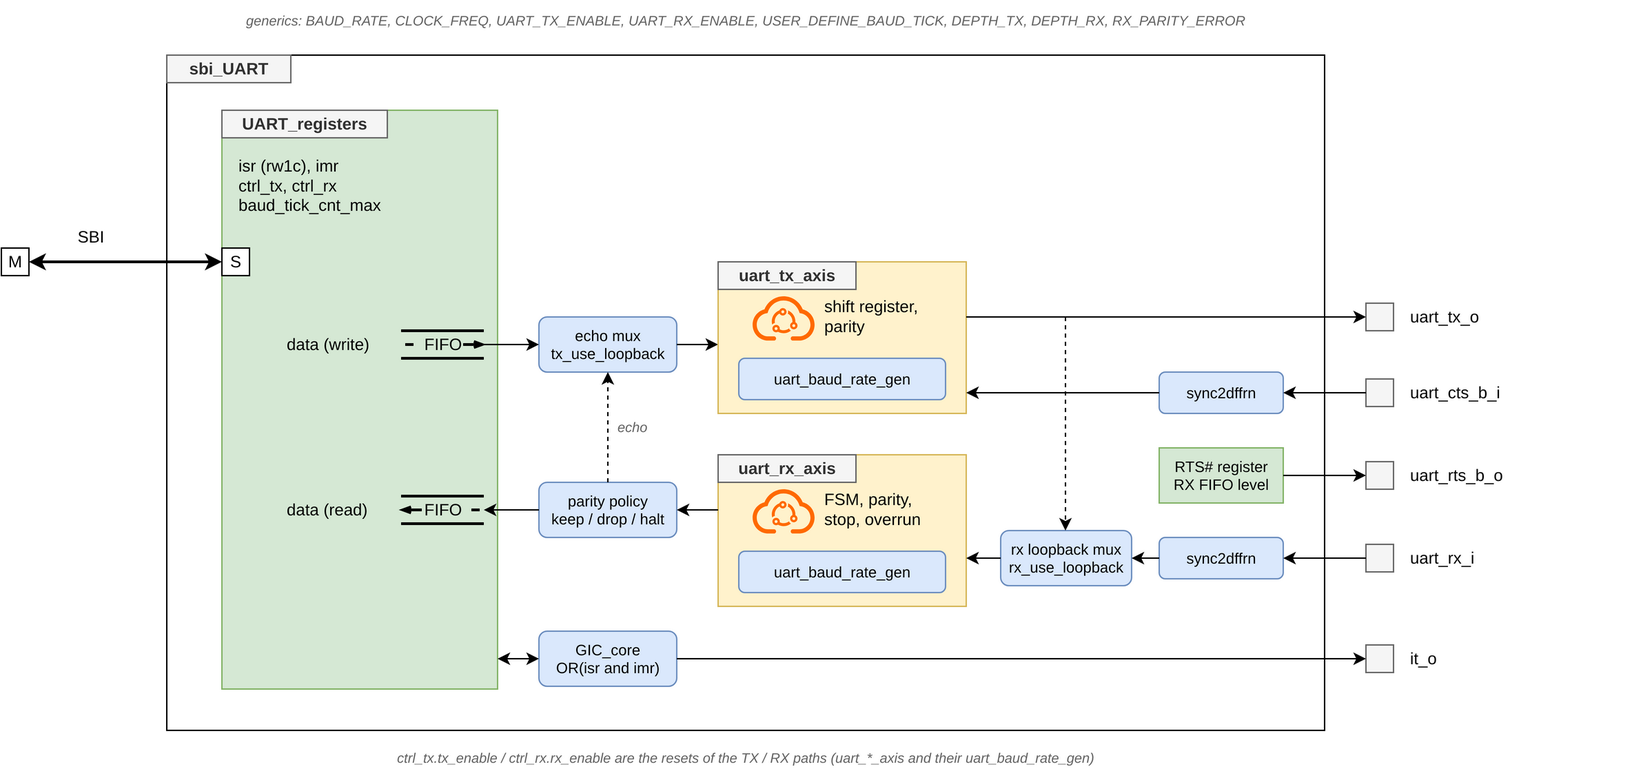
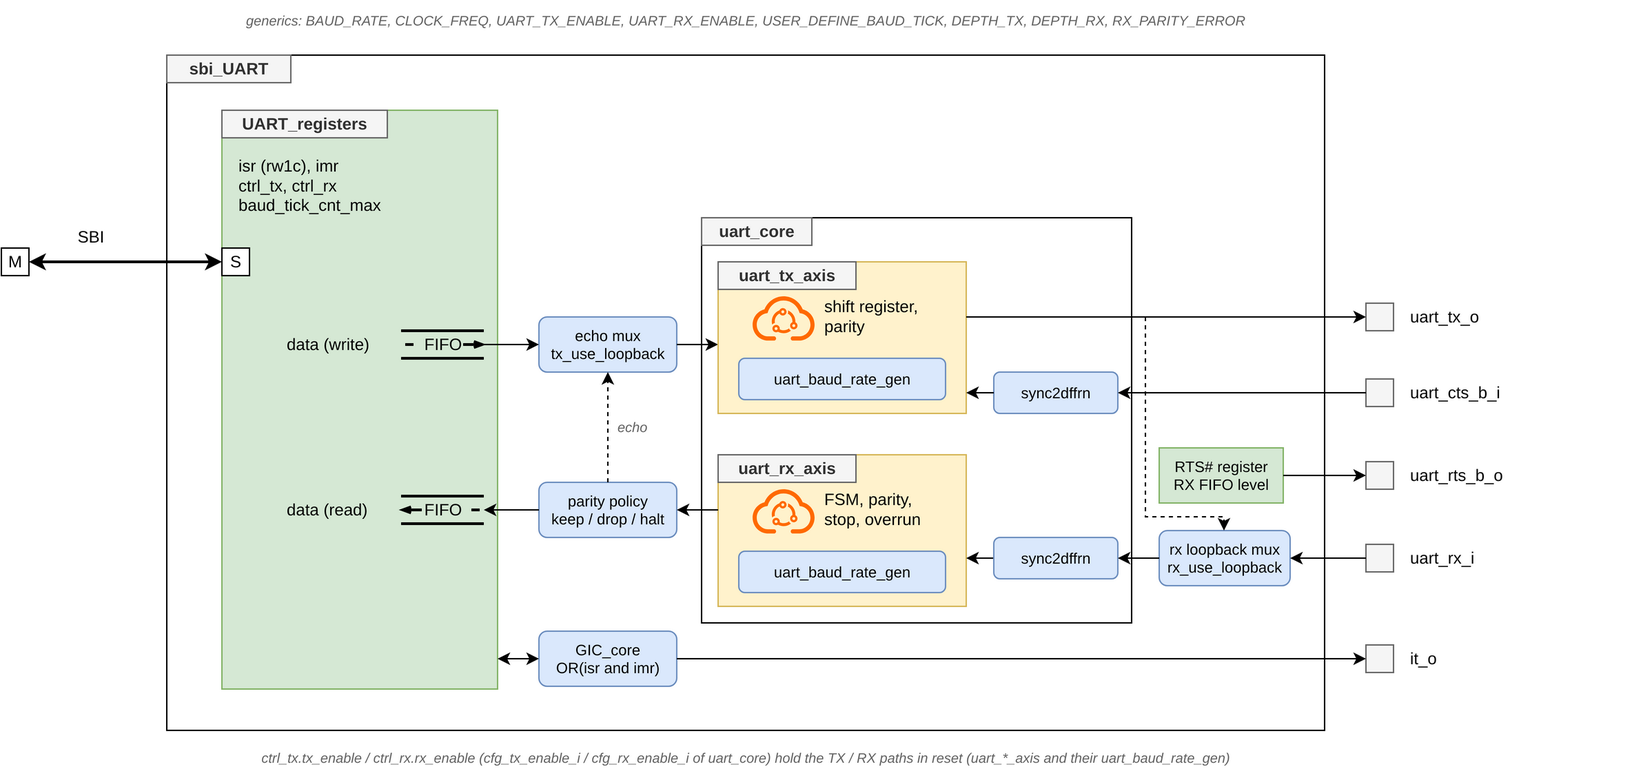
UART - README : uart_core
Section uart_core (generics, ports, asynchronous inputs synchronized
inside, outputs of a removed direction, standalone example), uart_core
in the overview, features, hierarchy and block diagram (doc/uart.drawio
page Overview, the synchronizers inside uart_core, after the RX
loopback mux), loopbacks need both directions and go through the
synchronizers (2 more clock cycles), Resources regenerated (sbi_UART on
uart_core, syn_core, syn_core_tx_only), tb_uart_core scenarios, checks,
mutants and targets.

diff --git a/README.md b/README.md
@@ -62,7 +62,7 @@ This IP is an asynchronous serial port (UART) with 8-bit frames. Software drives
 - a byte received by `uart_rx_axis` is pushed into an RX FIFO and read back from the same `data` register,
 - the FIFO state and the receive errors are the 8 sources of an interrupt controller (`isr`, `imr`, `it_o`), also read by polling.
 
-The transmitter and the receiver have AXI-Stream-like valid/ready interfaces, their own baud rate generator, enable and parity configuration.
+The transmitter and the receiver have AXI-Stream-like valid/ready interfaces, their own baud rate generator, enable and parity configuration. They form `uart_core`, a UART without registers that a design can also use alone (see [uart_core](#uart_core-uart-without-registers)).
 
 ## Features
 
@@ -76,6 +76,7 @@ The transmitter and the receiver have AXI-Stream-like valid/ready interfaces, th
 - Serial loopback (TX to RX) and echo mode (received bytes sent back), for self-test
 - 8 interrupt sources: TX FIFO empty / full, RX FIFO not empty / full, RX overrun, framing error, parity error, break
 - TX or RX path removable at elaboration (`UART_TX_ENABLE`, `UART_RX_ENABLE`)
+- `uart_core`: transmitter and receiver with their baud rate generators and the synchronizers of the asynchronous inputs, without registers, for a standalone use; a removed direction (`TX_ENABLE`, `RX_ENABLE`) has no logic and constant outputs
 - Simulation only: dump of the sent and received bytes to text files
 
 ## Block Diagram
@@ -164,10 +165,93 @@ The asynchronous inputs are synchronized inside the IP: connect them directly to
 |------|-----------|------|-------------|
 | `debug_o` | out | uart_debug_t | `uart_tx.state` (TX active), `uart_rx.state` (receiver FSM state), `uart_rx.bit_cnt` (4 LSB of the bit counter), `uart_rx.baud_tick_half`, `uart_rx.parity_error` (parity error of the last received frame) |
 
+### uart_core: UART without registers
+
+[hdl/uart_core.vhd](hdl/uart_core.vhd), component in `asylum.uart_pkg`: the transmitter `uart_tx_axis` and the receiver `uart_rx_axis`, each with its `uart_baud_rate_gen`, as in `sbi_UART`, and the synchronizers of `uart_rx_i` and `uart_cts_b_i`, without registers, FIFOs or interrupts. `sbi_UART` is built on it.
+
+| Generic | Type | Default | Description |
+|---------|------|---------|-------------|
+| `TX_ENABLE` | boolean | `true` | `false`: no transmitter, its outputs are constants (table below) |
+| `RX_ENABLE` | boolean | `true` | `false`: no receiver, its outputs are constants (table below) |
+| `WIDTH` | natural | `8` | Data bits per frame |
+| `BAUD_TICK_CNT_WIDTH` | natural | `16` | Width of `cfg_baud_tick_cnt_max_i` |
+
+| Name | Direction | Type | Description |
+|------|-----------|------|-------------|
+| `clk_i` | in | std_logic | Clock |
+| `arst_b_i` | in | std_logic | Asynchronous reset, active low |
+| `cfg_baud_tick_cnt_max_i` | in | std_logic_vector(BAUD_TICK_CNT_WIDTH-1 downto 0) | Clock cycles per bit - 1, for TX and RX; change it while both directions are disabled |
+| `cfg_tx_enable_i` / `cfg_rx_enable_i` | in | std_logic | `'0'`: the direction is held in reset (its reset is `arst_b_i and cfg_<dir>_enable_i`) |
+| `cfg_tx_parity_enable_i` / `cfg_tx_parity_odd_i` | in | std_logic | TX parity bit; 0: even, 1: odd |
+| `cfg_rx_parity_enable_i` / `cfg_rx_parity_odd_i` | in | std_logic | RX parity bit, sampled at the start of each frame; 0: even, 1: odd |
+| `s_axis_tdata_i` / `s_axis_tvalid_i` / `s_axis_tready_o` | in / in / out | std_logic_vector(WIDTH-1 downto 0) / std_logic / std_logic | Byte to send; ready when the transmitter is enabled, idle and CTS# is low |
+| `uart_tx_o` | out | std_logic | Serial output, idle high |
+| `uart_cts_b_i` | in | std_logic | Clear To Send, active low: a new frame starts only when `'0'`; asynchronous, synchronized inside |
+| `uart_rx_i` | in | std_logic | Serial input, idle high; asynchronous, synchronized inside |
+| `m_axis_tdata_o` / `m_axis_tvalid_o` / `m_axis_tready_i` | out / out / in | std_logic_vector(WIDTH-1 downto 0) / std_logic / std_logic | Received byte; every byte is delivered, except a byte dropped by an overrun |
+| `m_axis_parity_error_o` | out | std_logic | Parity error of the byte on `m_axis_tdata_o` |
+| `err_overrun_o` / `err_parity_o` / `err_framing_o` / `err_break_o` | out | std_logic | One-cycle pulses at the end of a frame: byte dropped because the previous one is pending, parity bit mismatch, stop bit at 0, every bit at 0 |
+| `debug_o` | out | uart_debug_t | Same record as `sbi_UART` |
+
+`uart_rx_i` and `uart_cts_b_i` are asynchronous: connect them directly to the pads. Each one goes through a `sync2dffrn` of `asylum:target:techmap` (2 clock cycles of latency) when its direction exists: `uart_rx_i` with `RX_ENABLE`, `uart_cts_b_i` with `TX_ENABLE`. `uart_rx_i` is inverted around its synchronizer (reset to `'0'`), so that the receiver sees the idle level `'1'` during the reset. A loopback of `uart_tx_o` to `uart_rx_i` goes through the synchronizer too (2 clock cycles).
+
+Outputs of a removed direction:
+
+| Generic | Output | Value | Why |
+|---------|--------|-------|-----|
+| `TX_ENABLE = false` | `uart_tx_o` | `'1'` | Idle line |
+| | `s_axis_tready_o` | `'1'` | The bytes are accepted and dropped: a producer never blocks (a blocking write to `data` of `sbi_UART` without transmitter completes) |
+| | `debug_o.uart_tx` | all `'0'` | |
+| `RX_ENABLE = false` | `m_axis_tvalid_o` | `'0'` | No byte |
+| | `m_axis_tdata_o`, `m_axis_parity_error_o` | all `'0'` | |
+| | `err_overrun_o`, `err_parity_o`, `err_framing_o`, `err_break_o` | `'0'` | No error |
+| | `debug_o.uart_rx` | all `'0'` | |
+
+The inputs of a removed direction are ignored. Example: a transmitter only, at 115200 baud from a 50 MHz clock, no parity, CTS# ignored:
+
+```vhdl
+library ieee;
+use     ieee.numeric_std.all;
+library asylum;
+use     asylum.uart_pkg.all;
+
+  ins_uart_core : uart_core
+    generic map
+    (TX_ENABLE               => true
+    ,RX_ENABLE               => false
+    )
+    port map
+    (clk_i                   => clk
+    ,arst_b_i                => arst_b
+    ,cfg_baud_tick_cnt_max_i => std_logic_vector(to_unsigned(50000000/115200-1, 16))
+    ,cfg_tx_enable_i         => '1'
+    ,cfg_tx_parity_enable_i  => '0'
+    ,cfg_tx_parity_odd_i     => '0'
+    ,cfg_rx_enable_i         => '0'
+    ,cfg_rx_parity_enable_i  => '0'
+    ,cfg_rx_parity_odd_i     => '0'
+    ,s_axis_tdata_i          => tx_tdata
+    ,s_axis_tvalid_i         => tx_tvalid
+    ,s_axis_tready_o         => tx_tready
+    ,uart_tx_o               => uart_tx
+    ,uart_cts_b_i            => '0'
+    ,uart_rx_i               => '1'
+    ,m_axis_tdata_o          => open
+    ,m_axis_parity_error_o   => open
+    ,m_axis_tvalid_o         => open
+    ,m_axis_tready_i         => '1'
+    ,err_overrun_o           => open
+    ,err_parity_o            => open
+    ,err_framing_o           => open
+    ,err_break_o             => open
+    ,debug_o                 => open
+    );
+```
+
 <details>
 <summary><b>uart_tx_axis, uart_rx_axis, uart_baud_rate_gen</b>: transmitter, receiver and baud rate generator, for a standalone use without the registers</summary>
 
-Components in `asylum.uart_pkg`, generic `WIDTH` (8) for the transmitter and the receiver, `BAUD_TICK_CNT_WIDTH` (16) for the baud rate generator. `arst_b_i` is the enable of the path in `sbi_UART` (`ctrl_tx.tx_enable` / `ctrl_rx.rx_enable`).
+Components in `asylum.uart_pkg`, generic `WIDTH` (8) for the transmitter and the receiver, `BAUD_TICK_CNT_WIDTH` (16) for the baud rate generator. In `uart_core`, `arst_b_i` of a path is `arst_b_i and cfg_<dir>_enable_i` (`ctrl_tx.tx_enable` / `ctrl_rx.rx_enable` in `sbi_UART`).
 
 [hdl/uart_tx_axis.vhd](hdl/uart_tx_axis.vhd):
 
@@ -228,19 +312,21 @@ The FIFO depths set most of the area of the IP.
 
 ## Resources
 
-Figures of the `syn_*` targets (`make nonreg_syn`, see [Targets](#targets)): [syn/sbi_UART_wrapper.vhd](syn/sbi_UART_wrapper.vhd) with the generics of each configuration, synthesized by Yosys and its GHDL plugin; the reports are in the build directory of each target.
+Figures of the `syn_*` targets (`make nonreg_syn`, see [Targets](#targets)): [syn/sbi_UART_wrapper.vhd](syn/sbi_UART_wrapper.vhd) (`sbi_UART`) and [syn/uart_core_wrapper.vhd](syn/uart_core_wrapper.vhd) (`uart_core`, 8 data bits, 16-bit divider) with the generics of each configuration, synthesized by Yosys and its GHDL plugin; the reports are in the build directory of each target.
 
 | Configuration | LUT¹ | LUTRAM¹ | FF¹ | CARRY4¹ | MUXF7/F8¹ | BRAM¹ | DSP¹ | Area² (µm²) | kGE³ |
 |---|---|---|---|---|---|---|---|---|---|
-| `syn_default` (default generics, no FIFO) | 223 | 0 | 146 | 8 | 31 | 0 | 0 | 6690.17 | 1.782 |
-| `syn_fifo16` (FIFOs 16 / 16, as `tb_UART`) | 248 | 16 | 171 | 18 | 42 | 0 | 0 | 17646.92 | 4.701 |
+| `syn_default` (default generics, no FIFO) | 223 | 0 | 146 | 8 | 32 | 0 | 0 | 6711.44 | 1.788 |
+| `syn_fifo16` (FIFOs 16 / 16, as `tb_UART`) | 249 | 16 | 171 | 18 | 42 | 0 | 0 | 17653.18 | 4.703 |
 | `syn_tx_only` (no receiver, TX FIFO 4) | 134 | 8 | 91 | 6 | 16 | 0 | 0 | 5142.43 | 1.370 |
-| `syn_rx_only` (no transmitter, RX FIFO 4) | 139 | 8 | 113 | 7 | 14 | 0 | 0 | 6367.36 | 1.696 |
-| `syn_fixed_baud` (no FIFO, fixed divider) | 214 | 0 | 130 | 8 | 4 | 0 | 0 | 5601.62 | 1.492 |
-| `syn_parity_drop` (no FIFO, `RX_PARITY_ERROR = "drop"`) | 226 | 0 | 147 | 8 | 33 | 0 | 0 | 6757.73 | 1.800 |
-| `syn_parity_halt` (no FIFO, `RX_PARITY_ERROR = "halt"`) | 224 | 0 | 146 | 8 | 36 | 0 | 0 | 6722.70 | 1.791 |
+| `syn_rx_only` (no transmitter, RX FIFO 4) | 139 | 8 | 113 | 7 | 14 | 0 | 0 | 6383.62 | 1.701 |
+| `syn_fixed_baud` (no FIFO, fixed divider) | 196 | 0 | 130 | 8 | 9 | 0 | 0 | 5621.64 | 1.498 |
+| `syn_parity_drop` (no FIFO, `RX_PARITY_ERROR = "drop"`) | 226 | 0 | 147 | 8 | 34 | 0 | 0 | 6762.74 | 1.802 |
+| `syn_parity_halt` (no FIFO, `RX_PARITY_ERROR = "halt"`) | 226 | 0 | 146 | 8 | 39 | 0 | 0 | 6746.47 | 1.797 |
+| `syn_core` (`uart_core`, TX and RX) | 159 | 0 | 103 | 8 | 29 | 0 | 0 | 4699.51 | 1.252 |
+| `syn_core_tx_only` (`uart_core`, TX only) | 79 | 0 | 42 | 4 | 16 | 0 | 0 | 1845.52 | 0.492 |
 
-¹ Xilinx Artix-7 (LUT6), Yosys 0.33 `synth_xilinx -flatten -noiopad -noclkbuf`, before place and route: every cell of the netlist is counted, Vivado may differ. Identical cells are merged as a vendor tool does (`opt_merge -share_all`): the inverters of an active-low reset net become one (`ctrl_tx.tx_enable` and `ctrl_rx.rx_enable` are reset nets too); every remaining cell is counted, an `INV` as a `LUT1` (34 of the 223 LUTs of `syn_default`). The FIFO storage is in LUTRAM (`RAM32M`), not in BRAM.
+¹ Xilinx Artix-7 (LUT6), Yosys 0.33 `synth_xilinx -flatten -noiopad -noclkbuf`, before place and route: every cell of the netlist is counted, Vivado may differ. Identical cells are merged as a vendor tool does (`opt_merge -share_all`): the inverters of an active-low reset net become one (the resets of the TX and RX paths, `arst_b_i and cfg_<dir>_enable_i` in `uart_core`, are reset nets too); every remaining cell is counted, an `INV` as a `LUT1` (31 of the 223 LUTs of `syn_default`, 32 of the 159 of `syn_core`). The FIFO storage is in LUTRAM (`RAM32M`), not in BRAM.
 
 ² SkyWater sky130 `sky130_fd_sc_hd`, typical corner (tt, 25 °C, 1.80 V), Yosys 0.33 `synth` + `dfflibmap` + `abc -liberty`: standard-cell area only, no timing constraint, no buffering, clock tree or placement; the FIFO storage becomes flip-flops (no SRAM macro).
 
@@ -252,7 +338,8 @@ Figures of the `syn_*` targets (`make nonreg_syn`, see [Targets](#targets)): [sy
 
 | File | Unit | Role |
 |------|------|------|
-| [hdl/sbi_uart.vhd](hdl/sbi_uart.vhd) | `sbi_UART` | Top level: registers, synchronizers, loopback and echo muxes, parity error policy, RTS#, `GIC_core`, simulation dumps |
+| [hdl/sbi_uart.vhd](hdl/sbi_uart.vhd) | `sbi_UART` | Top level: registers, loopback and echo muxes, parity error policy, RTS#, `GIC_core`, simulation dumps |
+| [hdl/uart_core.vhd](hdl/uart_core.vhd) | `uart_core` | Transmitter and receiver with their baud rate generators, synchronizers of `uart_rx_i` / `uart_cts_b_i`, enables, constant outputs of a removed direction |
 | [hdl/uart_tx_axis.vhd](hdl/uart_tx_axis.vhd) | `uart_tx_axis` | Transmitter: shift register, parity, CTS# gating |
 | [hdl/uart_rx_axis.vhd](hdl/uart_rx_axis.vhd) | `uart_rx_axis` | Receiver: FSM, parity, stop bit and overrun checks |
 | [hdl/uart_baud_rate_gen.vhd](hdl/uart_baud_rate_gen.vhd) | `uart_baud_rate_gen` | Baud tick and mid-bit tick (one per direction) |
@@ -269,7 +356,7 @@ Figures of the `syn_*` targets (`make nonreg_syn`, see [Targets](#targets)): [sy
 
 Each direction has its own `uart_baud_rate_gen`, a down counter reloaded with `baud_tick_cnt_max`: one bit lasts `baud_tick_cnt_max + 1` clock cycles. The reset value of `baud_tick_cnt_max` is `CLOCK_FREQ / BAUD_RATE - 1` (integer division): 433 for 115200 baud at 50 MHz (115207 baud). The TX generator runs free and the transmitter shifts one bit per `baud_tick`. The RX generator starts on the falling edge of the start bit, and the receiver samples each bit at mid-bit (`baud_tick_half`), which tolerates a few percent of baud rate mismatch (± 3 % in simulation).
 
-`ctrl_tx.tx_enable` and `ctrl_rx.rx_enable` are the resets of their path (transmitter or receiver and its generator): write `baud_tick_cnt_max` while both are 0.
+`ctrl_tx.tx_enable` and `ctrl_rx.rx_enable` (`cfg_tx_enable_i` / `cfg_rx_enable_i` of `uart_core`) hold their path (transmitter or receiver and its generator) in reset: write `baud_tick_cnt_max` while both are 0.
 
 ### Transmitter
 
@@ -284,7 +371,7 @@ A byte is taken from the TX FIFO only when it is loaded in the shift register: t
 - **ACTIVE**: shifts in one sample per `baud_tick_half`, 9 or 10 samples (data, parity, stop).
 - **STOP**: extracts the byte, checks the parity (even: `xor(data, parity) = 0`, odd: `xor(data, parity) = 1`) and the stop bit, pulses `err_parity_o`, `err_framing_o` (stop bit at 0), `err_break_o` (every bit at 0), and delivers the byte with its parity error on `m_axis`. If the previous byte is still pending, the new byte is dropped and `err_overrun_o` pulses: the pending byte is never overwritten.
 
-The receiver input is the synchronized `uart_rx_i` (2 clock cycles of latency), or `uart_tx` with `ctrl_rx.rx_use_loopback = 1`.
+The receiver input is `uart_rx_i`, or `uart_tx` with `ctrl_rx.rx_use_loopback = 1`, synchronized in `uart_core` in both cases (2 clock cycles of latency).
 
 ### Parity error policy
 
@@ -297,6 +384,8 @@ The receiver input is the synchronized `uart_rx_i` (2 clock cycles of latency), 
 An overrun has priority: a frame received while a byte is pending is dropped with the overrun event (and its parity error event with `"keep"` and `"drop"`; with `"halt"` only the overrun event).
 
 ### Loopback and flow control
+
+Both loopbacks need the two directions: with `UART_TX_ENABLE` or `UART_RX_ENABLE` false, `tx_use_loopback` and `rx_use_loopback` are ignored. The muxes of RX (`rx_use_loopback`) and CTS# (`cts_enable`, internal RTS# in echo mode) are before the synchronizers of `uart_core`: since 3.1.0 the serial loopback and the RTS# to CTS# loop take 2 more clock cycles, and a change of `cts_enable` reaches the transmitter 2 clock cycles after the write of `ctrl_tx`.
 
 - `ctrl_rx.rx_use_loopback = 1`: serial loopback, the receiver input is `uart_tx`.
 - `ctrl_tx.tx_use_loopback = 1`: echo mode, the received bytes go straight to the transmitter (a byte with a parity error is echoed, or dropped with `"drop"`); no byte reaches the RX FIFO and the writes to `data` are accepted and dropped. With `cts_enable = 1`, CTS# is the internal RTS# (the `uart_cts_b_i` pin is ignored).
@@ -415,6 +504,7 @@ The receive errors are the bits `UART_RX_ERRORS` of `isr`: read them, then write
 | File | DUT | Description |
 |------|-----|-------------|
 | [sim/basic/tb_UART.vhd](sim/basic/tb_UART.vhd) | `sbi_UART` | Self-checking UVVM testbench with the SBI VIP, 50 MHz, 115200 baud, `DEPTH_TX = DEPTH_RX = 16`, generics `TESTS_LIST` (scenarios, see below) and `RX_PARITY_ERROR` (of the DUT). A UART BFM drives `uart_rx_i` (bit period, parity, corrupted parity bit, stop bit level) and a monitor checks every bit of the frames on `uart_tx_o`. Scenarios in `tb_UART_<name>_pkg` (one package per scenario), names and dispatch in [tb_UART_tests_pkg](sim/basic/tb_UART_tests_pkg.vhd), helpers (register accesses, UART BFM and monitor, reset pulse) in [tb_UART_bfm_pkg](sim/basic/tb_UART_bfm_pkg.vhd) |
+| [sim/core/tb_uart_core.vhd](sim/core/tb_uart_core.vhd) | `uart_core` | Self-checking UVVM testbench with the UVVM UART BFM (frames sent on `uart_rx_i`, parity and stop bit errors injected; frames checked on `uart_tx_o`), 50 MHz, 16 or 434 clock cycles per bit, generics `TESTS_LIST`, `TX_ENABLE` and `RX_ENABLE` (of the DUT). The scenarios drive the inputs and read the outputs of the DUT as two records (`tb_req`, `tb_rsp`, inputs changed on the falling edge, except the asynchronous frames of `rx`), `uart_rx_i` looped back to `uart_tx_o` on request; the testbench counts the pulses of each `err_*_o`. Scenarios in `tb_uart_core_<name>_pkg`, names, dispatch and the directions each one needs (else `TB_ERROR`) in [tb_uart_core_tests_pkg](sim/core/tb_uart_core_tests_pkg.vhd), helpers in [tb_uart_core_bfm_pkg](sim/core/tb_uart_core_bfm_pkg.vhd) |
 
 ### Scenarios (`TESTS_LIST`)
 
@@ -442,7 +532,22 @@ Checks counted as the `=> OK` lines of the log, for `RX_PARITY_ERROR` = keep / d
 | `baud` | 5 / 5 / 5 | `baud_tick_cnt_max` written by software (57600 baud, both bytes not 0): a frame sent and a frame received at the new bit period |
 | **Total** | **762 / 762 / 779** | |
 
-The testbench was validated with 42 RTL mutants (transmitter, receiver, baud rate generator, `sbi_UART`, register map), each run scenario by scenario in the three configurations: 40 are killed; the 2 others do not change the function (receiver synchronizer bypassed, first RX sample one clock cycle earlier). Not simulated: `DEPTH_TX` / `DEPTH_RX` = 0, `UART_TX_ENABLE` / `UART_RX_ENABLE` = false and `USER_DEFINE_BAUD_TICK` = false (checked by the `lint_ghdl_synth_*` and `syn_*` targets only).
+Scenarios of `tb_uart_core`, checks for the configurations TX and RX (`sim_core_<name>`) / TX only (`sim_core_tx_only`) / RX only (`sim_core_rx_only`) / none (`sim_core_disabled`), `-`: not applicable:
+
+| Name | Checks | Description |
+|------|--------|-------------|
+| `tx` | 43 / 43 / - / - | `cfg_tx_enable_i = 0`: no byte taken, line idle; then 6 patterns without, with even and with odd parity, every bit of the frame, `debug_o.uart_tx.state` during a frame (RX parity left disabled) |
+| `rx` | 116 / - / 116 / - | `cfg_rx_enable_i = 0`: no byte; then 6 patterns without, with even and with odd parity, corrupted parity bit (`m_axis_parity_error_o`, `err_parity_o`, `debug_o.uart_rx.parity_error`), frames with every edge 1, 7, 13 and 19 ns after a rising clock edge (asynchronous `uart_rx_i`) (TX parity left disabled) |
+| `loopback` | 193 / - / - / - | `uart_tx_o` looped back to `uart_rx_i`, 16 and 434 clock cycles per bit, 6 patterns without, with even and with odd parity; TX even / RX odd and TX odd / RX even: parity errors |
+| `cts` | 9 / 9 / - / - | No byte taken while CTS# is inactive, a frame in progress ends when CTS# goes inactive, the next byte waits |
+| `rx_errors` | 30 / - / 30 / - | Framing error (byte delivered), break with and without parity, overrun (pending byte kept, new byte dropped): one pulse each |
+| `tx_disabled` | - / - / 12 / 12 | `TX_ENABLE = false`: `uart_tx_o`, `s_axis_tready_o` (bytes taken) and `debug_o.uart_tx` constant, whatever the configuration and CTS# |
+| `rx_disabled` | - / 18 / - / 18 | `RX_ENABLE = false`: `m_axis_*`, `err_*` and `debug_o.uart_rx` constant while good frames, parity errors, framing errors and a break come on `uart_rx_i` |
+| **Total** | **391 / 70 / 158 / 30** | |
+
+`tb_uart_core` was validated with 24 RTL mutants of `uart_core` (removed direction driving its outputs, baud rate generators swapped, RX parity from the TX configuration and back, enables ignored, error outputs swapped, CTS# ignored, RX generator free running, synchronizers), each scenario run alone in every configuration where it applies: 21 are killed; the 3 others are equivalent in simulation (RX synchronizer bypassed, CTS# synchronizer bypassed: 2 clock cycles less of latency; RX synchronized without the inversion: line seen at `'0'` during the reset and 2 cycles after, while the testbench holds the receiver in reset with `cfg_rx_enable_i = 0`).
+
+The testbench of `sbi_UART` was validated with 42 RTL mutants (transmitter, receiver, baud rate generator, `sbi_UART`, register map), each run scenario by scenario in the three configurations: 40 are killed; the 2 others do not change the function (receiver synchronizer bypassed, now in `uart_core`; first RX sample one clock cycle earlier); rerun on `sbi_UART` built on `uart_core` with its synchronizers, every mutant is killed by the same scenarios. Not simulated: `DEPTH_TX` / `DEPTH_RX` = 0, `UART_TX_ENABLE` / `UART_RX_ENABLE` = false and `USER_DEFINE_BAUD_TICK` = false (checked by the `lint_ghdl_synth_*` and `syn_*` targets only; the constant outputs of a removed direction are simulated in `tb_uart_core`).
 
 ### Targets
 
@@ -453,9 +558,16 @@ The testbench was validated with 42 RTL mutants (transmitter, receiver, baud rat
 | `sim_basic_<name>` | `tb_UART` | One target per scenario: `sim_basic_reset_values`, `_rx`, `_rx_drift`, `_rx_glitch`, `_rx_parity`, `_tx`, `_loopback`, `_tx_flow`, `_rx_overrun`, `_rx_pending`, `_rx_errors`, `_tx_irq`, `_rts`, `_echo`, `_parity_policy`, `_baud` (762 checks in all) |
 | `sim_rx_parity_drop` | `tb_UART` | `RX_PARITY_ERROR = "drop"`, every scenario (762 checks) |
 | `sim_rx_parity_halt` | `tb_UART` | `RX_PARITY_ERROR = "halt"`, every scenario (779 checks) |
+| `sim_core` | `tb_uart_core` | Reference configuration of `uart_core` (TX and RX): build and elaboration only |
+| `sim_core_<name>` | `tb_uart_core` | One target per scenario of the reference configuration: `sim_core_tx`, `_rx`, `_loopback`, `_cts`, `_rx_errors` (391 checks in all) |
+| `sim_core_tx_only` | `tb_uart_core` | `RX_ENABLE = false`: `tx`, `cts`, `rx_disabled` (70 checks) |
+| `sim_core_rx_only` | `tb_uart_core` | `TX_ENABLE = false`: `rx`, `rx_errors`, `tx_disabled` (158 checks) |
+| `sim_core_disabled` | `tb_uart_core` | `TX_ENABLE = RX_ENABLE = false`: `tx_disabled`, `rx_disabled` (30 checks) |
 | `lint_ghdl` | `asylum.sbi_UART_wrapper` | GHDL `-Wall` analysis and elaboration of [syn/sbi_UART_wrapper.vhd](syn/sbi_UART_wrapper.vhd) |
 | `lint_ghdl_synth_<config>` | `asylum.sbi_UART_wrapper` | `ghdl --synth` check (no latch, synthesizable) for 7 generic configurations: `default`, `fifo16`, `tx_only`, `rx_only`, `fixed_baud`, `parity_drop`, `parity_halt` |
 | `syn_<config>` | `asylum.sbi_UART_wrapper` | Synthesis with Yosys, Artix-7 and sky130 (see [Resources](#resources)), same 7 configurations as `lint_ghdl_synth_<config>` |
+| `lint_ghdl_synth_core`, `lint_ghdl_synth_core_tx_only` | `asylum.uart_core_wrapper` | `ghdl --synth` check of [syn/uart_core_wrapper.vhd](syn/uart_core_wrapper.vhd): `uart_core` with TX and RX, TX only |
+| `syn_core`, `syn_core_tx_only` | `asylum.uart_core_wrapper` | Synthesis of `uart_core` with Yosys, same 2 configurations |
 
 The reference configuration of a testbench has a build-only base target and one target per scenario: one CI job per scenario, a failure is isolated. Every other configuration has one target that runs its whole list: the `TEST <i>/<N>` header names a failing scenario. FuseSoC replaces the `parameters` list of an inherited target, so each target repeats the generics of its configuration.
 
@@ -494,11 +606,11 @@ Outside the CI, GHDL writes a waveform `dut.fst`, and `sbi_UART` writes the dump
 | `asylum:utils:generators` | [asylum-utils-generators](https://github.com/deuskane/asylum-utils-generators) | regtool (register generator) and the CSR building blocks (`csr_reg`, `csr_fifo`); >= 2.10.0 for the read wait state of `isr` |
 | `asylum:component:fifo` | [asylum-component-fifo](https://github.com/deuskane/asylum-component-fifo) | FIFOs of the `data` register |
 | `asylum:system:GIC` | [asylum-system-gic](https://github.com/deuskane/asylum-system-gic) | `GIC_core` (>= 2.0.0: masked sources recorded in `isr`) |
-| `asylum:target:techmap` | [asylum-target-techmap](https://github.com/deuskane/asylum-target-techmap) | `sync2dffrn` synchronizers of `uart_rx_i` and `uart_cts_b_i` |
+| `asylum:target:techmap` | [asylum-target-techmap](https://github.com/deuskane/asylum-target-techmap) | `sync2dffrn` synchronizers of `uart_rx_i` and `uart_cts_b_i` (in `uart_core`) |
 | `asylum:utils:pkg` | [asylum-utils-pkg](https://github.com/deuskane/asylum-utils-pkg) | Common packages (`sbi_pkg`, `math_pkg`, ...); the testbench needs >= 1.10.0 (`string_pkg` lists of `TESTS_LIST`) |
 | `asylum:utils:ghdl_synth` | [asylum-utils-generators](https://github.com/deuskane/asylum-utils-generators) | `ghdl --synth` check of the `lint_ghdl_synth_*` targets |
 | `asylum:utils:yosys_synth` | [asylum-utils-generators](https://github.com/deuskane/asylum-utils-generators) | Yosys synthesis of the `syn_*` targets (Artix-7 and sky130) |
-| `bitvis:verification:uvvm` | [UVVM](https://github.com/UVVM/UVVM) | Verification library and SBI VIP |
+| `bitvis:verification:uvvm` | [UVVM](https://github.com/UVVM/UVVM) | Verification library, SBI VIP (`tb_UART`) and UART BFM (`tb_uart_core`) |
 
 Used by [asylum-soc-picosoc](https://github.com/deuskane/asylum-soc-picosoc). Other communication IPs of Asylum: [SPI](https://github.com/deuskane/asylum-communication-spi), [I2C](https://github.com/deuskane/asylum-communication-i2c). All the IPs: [asylum-project](https://github.com/deuskane/asylum-project).
 
